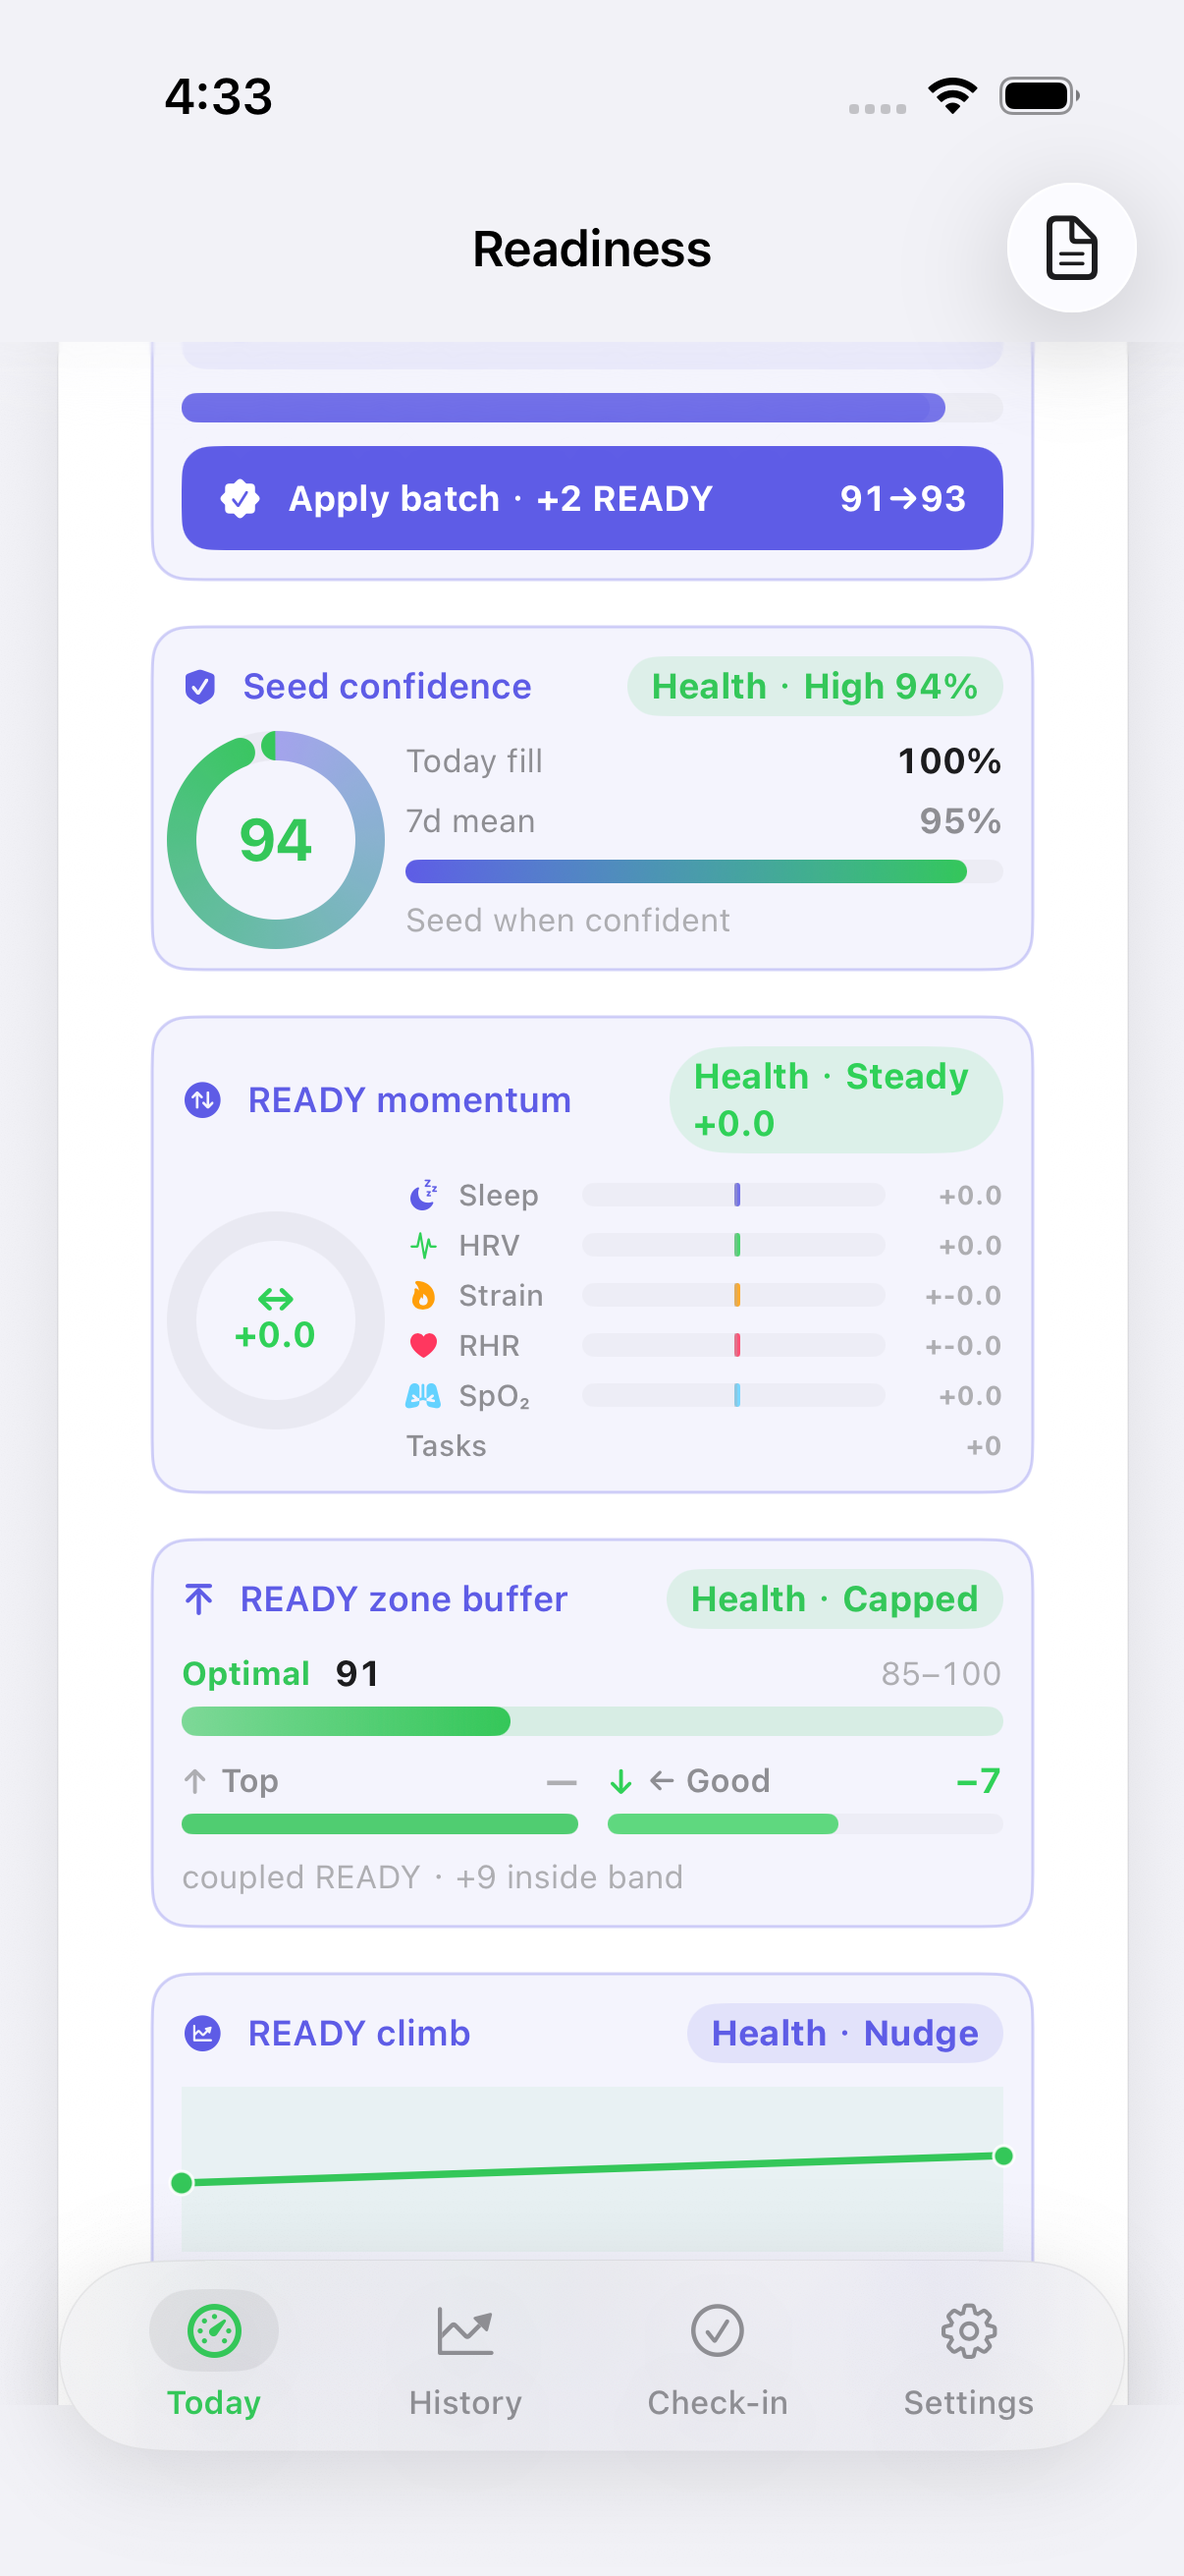
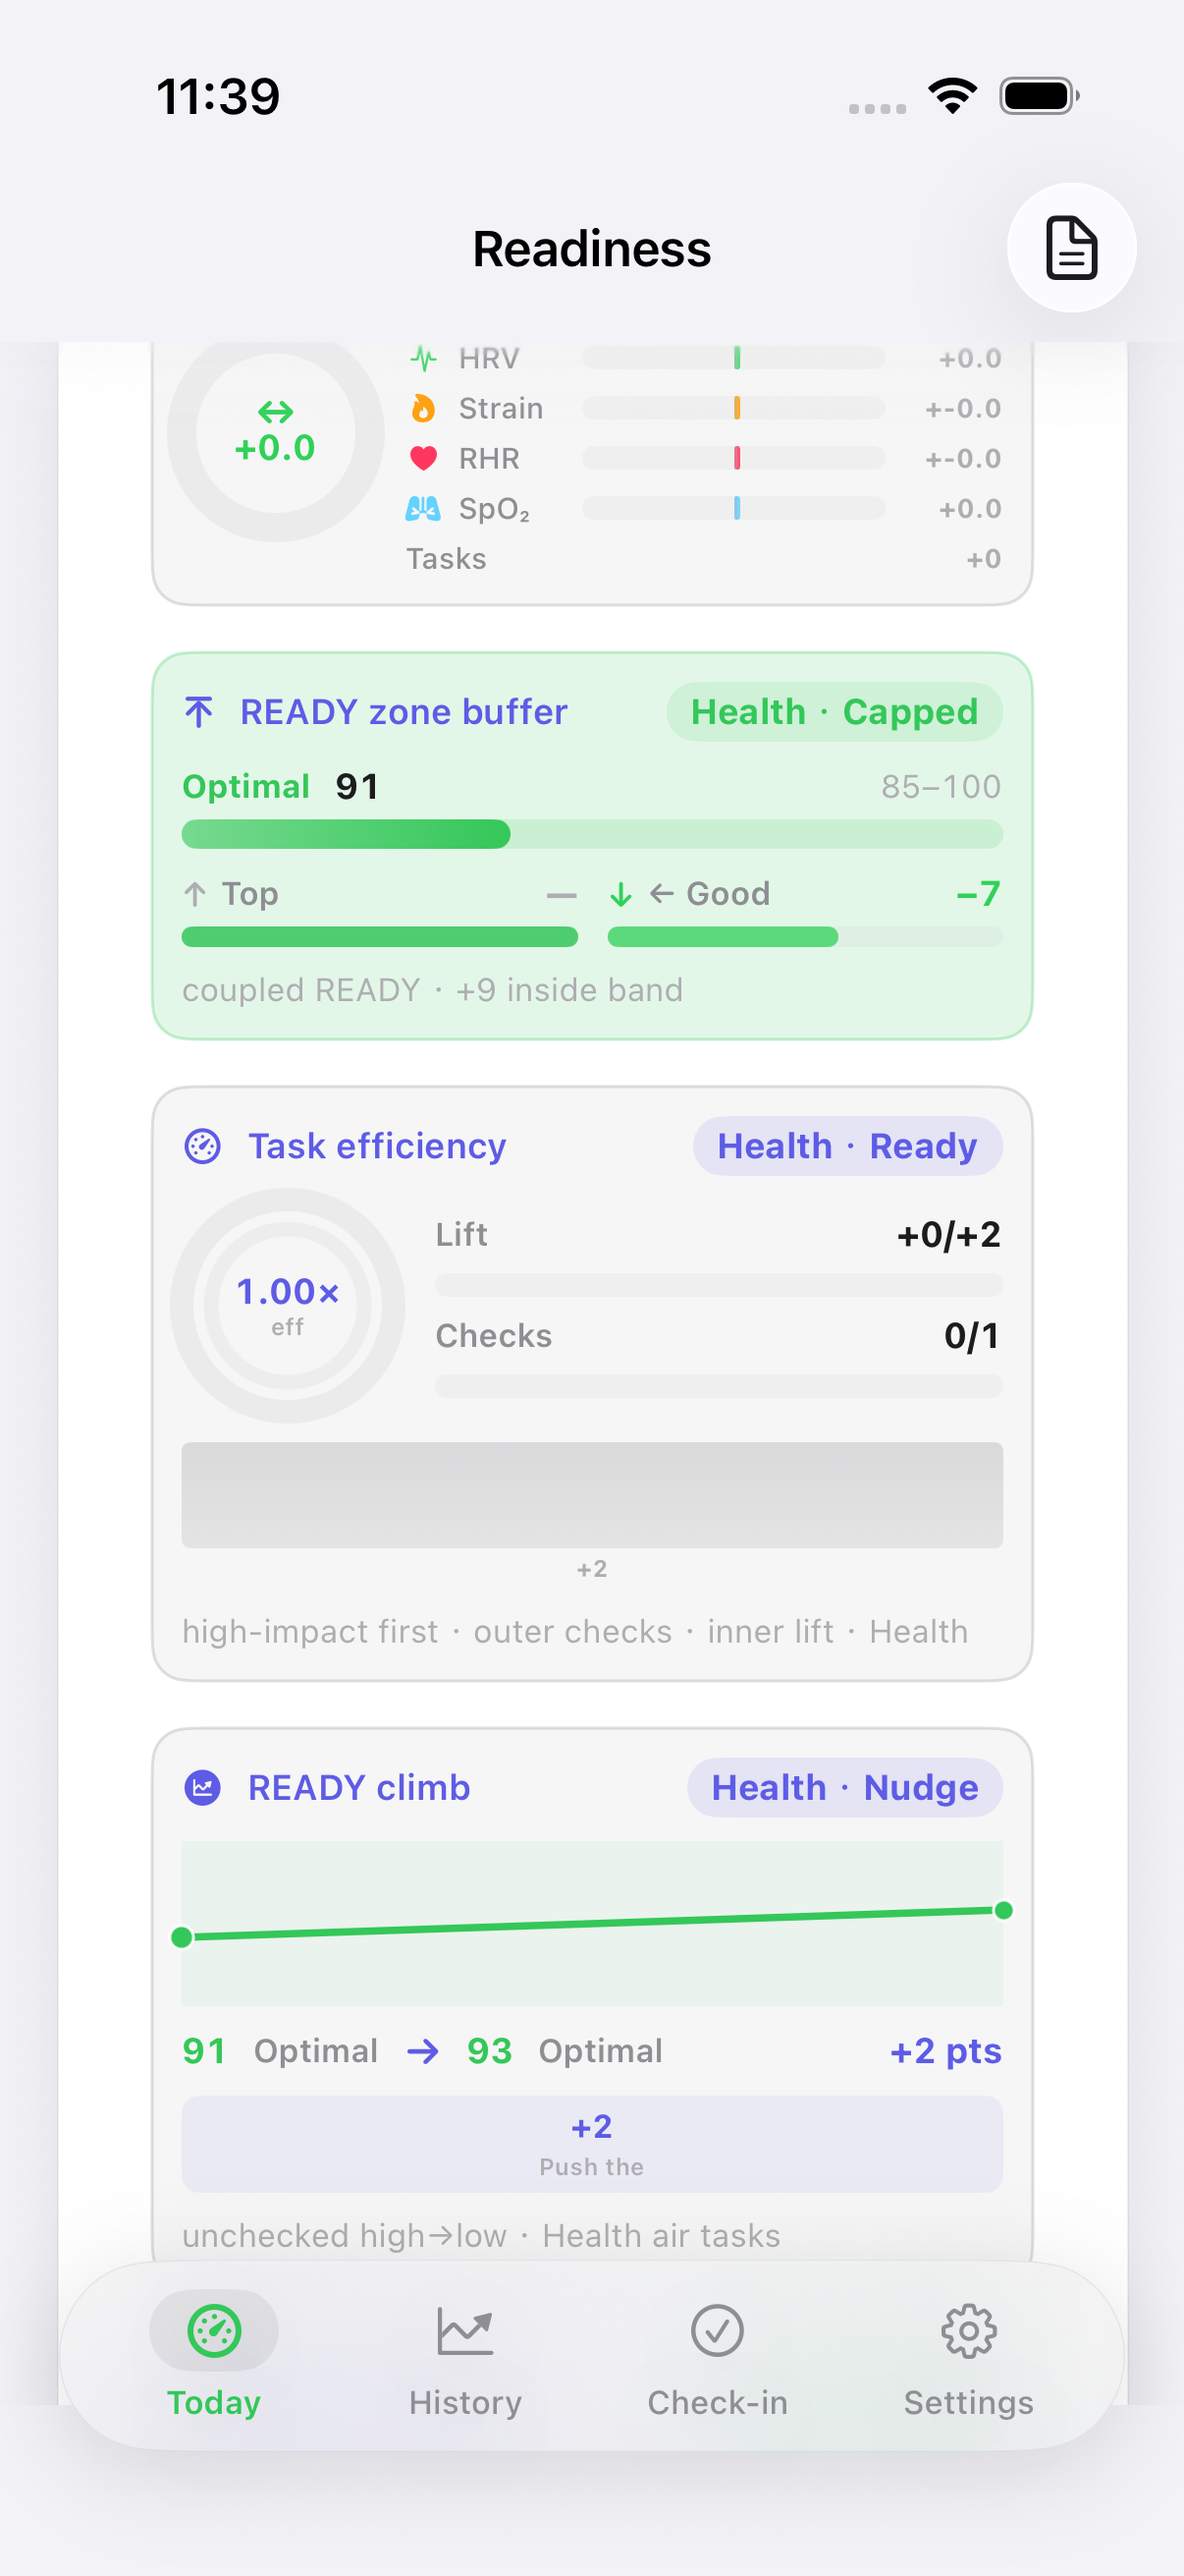
Honest #743: Simulator READY climb (WHOOP wells) (#773)
Restyle the existing Simulator READY climb forecast (`sim.load.ready.climb`, Honest #613) with WHOOP wells.

- Idle (Nudge / gain < 3): ghost/hairline 8%/28%
- Active (Step / gain >= 3): 14% fill + 28% hairline (good)
- Climb (gain >= 6) or Zone-up: 14% fill + 28% hairline (optimal); no new SurfaceID; no climb formula change

Proof: `testReadinessLoadSimulatorSurface` 773.909s, 0 failures; `.audit/verify-simulator-ready-climb.png`
model=deepseek-flash (mechanical pattern-copy of #742 wells)

Changed region(s): [[0.1227, 0.1236, 0.8897, 0.865], [0.1227, 0.0309, 0.2454, 0.0618], [0.1841, 0.4943, 0.2761, 0.5252]]

diff --git a/ReadinessTracker/Views/WhoopFeatures/ReadinessLoadSimulatorCard.swift b/ReadinessTracker/Views/WhoopFeatures/ReadinessLoadSimulatorCard.swift
@@ -3505,7 +3505,7 @@ struct ReadinessLoadSimulatorCard: View {
         .animation(.easeInOut(duration: 0.25), value: completedTaskIDs)
     }
 
-    /// Honest #613: READY climb forecast — cumulative lift path from unchecked tasks (Fitbit/GH richer sim).
+    /// Honest #613 / #743: READY climb forecast — cumulative lift path from unchecked tasks (WHOOP wells).
     @ViewBuilder
     private var readyClimbForecast: some View {
         let pending = tasks.filter { !completedTaskIDs.contains($0.id) }.sorted { $0.readyDelta > $1.readyDelta }
@@ -3550,6 +3550,8 @@ struct ReadinessLoadSimulatorCard: View {
         } else {
             verb = "Nudge"; tone = accent
         }
+        let climbIsActive = (verb != "Nudge")
+        let wellTone: Color = climbIsActive ? tone : RTColor.secondaryText
         let lo = max(0, min(start, end) - 5)
         let hi = min(100, max(start, end) + 5)
         let span = max(1, hi - lo)
@@ -3652,10 +3654,10 @@ struct ReadinessLoadSimulatorCard: View {
                 .foregroundStyle(RTColor.tertiaryText)
         }
         .padding(10)
-        .background(accent.opacity(0.07), in: RoundedRectangle(cornerRadius: 12, style: .continuous))
+        .background(wellTone.opacity(climbIsActive ? 0.14 : 0.08), in: RoundedRectangle(cornerRadius: 12, style: .continuous))
         .overlay(
             RoundedRectangle(cornerRadius: 12, style: .continuous)
-                .stroke(accent.opacity(0.28), lineWidth: 1)
+                .stroke(wellTone.opacity(0.28), lineWidth: 1)
         )
         .accessibilityIdentifier(SurfaceID.readinessSimulatorReadyClimb)
         .accessibilityLabel("READY climb \(verb) \(start) to \(end)")

diff --git a/ReadinessTracker/Design/Theme.swift b/ReadinessTracker/Design/Theme.swift
@@ -407,7 +407,7 @@ enum SurfaceID {
     static let readinessSimulatorReadyMomentum = "sim.load.ready.momentum"  // Honest #607 / #740
     static let readinessSimulatorReadyBuffer = "sim.load.ready.buffer"  // Honest #609 / #741
     static let readinessSimulatorTaskEfficiency = "sim.load.tasks.efficiency"  // Honest #611 / #742
-    static let readinessSimulatorReadyClimb = "sim.load.ready.climb"  // Honest #613
+    static let readinessSimulatorReadyClimb = "sim.load.ready.climb"  // Honest #613 / #743
     static let readinessSimulatorReadyHandoff = "sim.load.ready.handoff"  // Honest #615
     static let readinessSimulatorClimbPace = "sim.load.ready.climb.pace"  // Honest #617
     static let readinessSimulatorClimbETA = "sim.load.ready.climb.eta"  // Honest #619

diff --git a/ReadinessTrackerUITests/SurfacesUITests.swift b/ReadinessTrackerUITests/SurfacesUITests.swift
@@ -10827,7 +10827,7 @@ final class SurfacesUITests: XCTestCase {
             }
         }
         saveShot("verify-simulator-task-efficiency.png")
-        // Honest #613: READY climb forecast
+        // Honest #613 / #743: READY climb forecast (WHOOP wells)
         let readyClimb = app.descendants(matching: .any)["sim.load.ready.climb"].firstMatch
         XCTAssertTrue(readyClimb.waitForExistence(timeout: 5)
                       || app.descendants(matching: .any)["sim.load.ready.buffer"].firstMatch.exists

diff --git a/.audit/decision-log-2026-11-04.md b/.audit/decision-log-2026-11-04.md
@@ -294,3 +294,9 @@
 
 | 23:17 HKT | #742 Simulator task efficiency | prove | UITest suite green /tmp/RT-DD742 (770.997s, 0 failures; xcresult wall 784.557s); model=deepseek-flash |
 | 23:18 HKT | #742 Simulator task efficiency | land | proof PNG + receipt; SID sim.load.tasks.efficiency; PR squash next; model=deepseek-flash |
+
+| 23:26 HKT | Honest #743 Simulator READY climb | model=deepseek-flash | restyle existing sim.load.ready.climb after task efficiency #742; WHOOP ghost/active/Climb wells; mechanical pattern-copy of #742 wells applied locally (no separate model iterate needed) | mid-ship |
+| 23:26 HKT | Honest #743 Simulator READY climb | prove | started UITest /tmp/RT-DD743; model=deepseek-flash | mid-ship |
+
+| 23:45 HKT | #743 Simulator READY climb | prove | UITest suite green /tmp/RT-DD743 (773.909s, 0 failures; xcresult wall 787.633s); model=deepseek-flash |
+| 23:46 HKT | #743 Simulator READY climb | land | proof PNG + receipt; SID sim.load.ready.climb; PR squash next; model=deepseek-flash |

diff --git a/.audit/sim-ready-climb.md b/.audit/sim-ready-climb.md
@@ -1,5 +1,6 @@
-# Honest #613: Simulator READY climb forecast
+# Honest #613 / #743: Simulator READY climb forecast (WHOOP wells)
 
-Cumulative lift path from unchecked tasks (Zone↑/Climb/Step/Nudge).
+Cumulative lift path from unchecked tasks (Zone-up / Climb / Step / Nudge).
+Idle (Nudge / gain less than 3) = ghost/hairline 8/28; active (Step) = 14 fill + 28 hairline (good); Climb (gain at least 6) or Zone-up = 14 fill + 28 hairline (optimal).
 SurfaceID: `sim.load.ready.climb`
 Proof: `.audit/verify-simulator-ready-climb.png`

diff --git a/.cursor/skills/verify-readiness-tracker/features/sim-ready-climb.md b/.cursor/skills/verify-readiness-tracker/features/sim-ready-climb.md
@@ -1,5 +1,6 @@
-# Honest #613: Simulator READY climb forecast
+# Honest #613 / #743: Simulator READY climb forecast (WHOOP wells)
 
-Cumulative lift path from unchecked tasks (Zone↑/Climb/Step/Nudge).
+Cumulative lift path from unchecked tasks (Zone-up / Climb / Step / Nudge).
+Idle (Nudge / gain less than 3) = ghost/hairline 8/28; active (Step) = 14 fill + 28 hairline (good); Climb (gain at least 6) or Zone-up = 14 fill + 28 hairline (optimal).
 SurfaceID: `sim.load.ready.climb`
 Proof: `.audit/verify-simulator-ready-climb.png`
